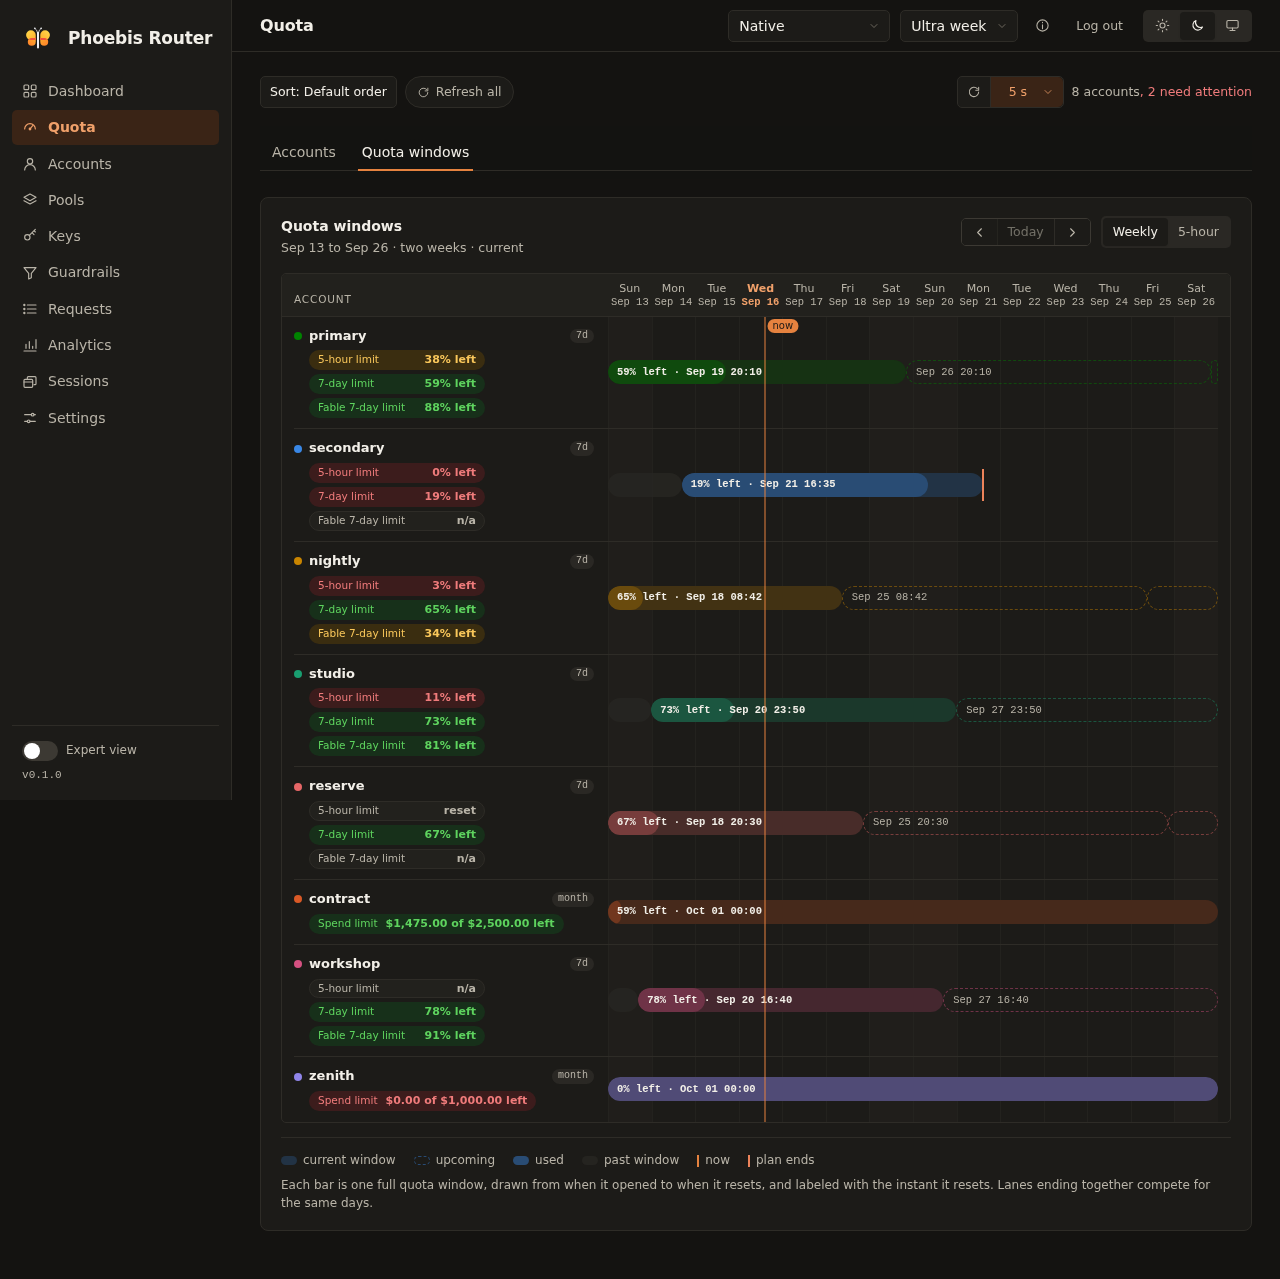
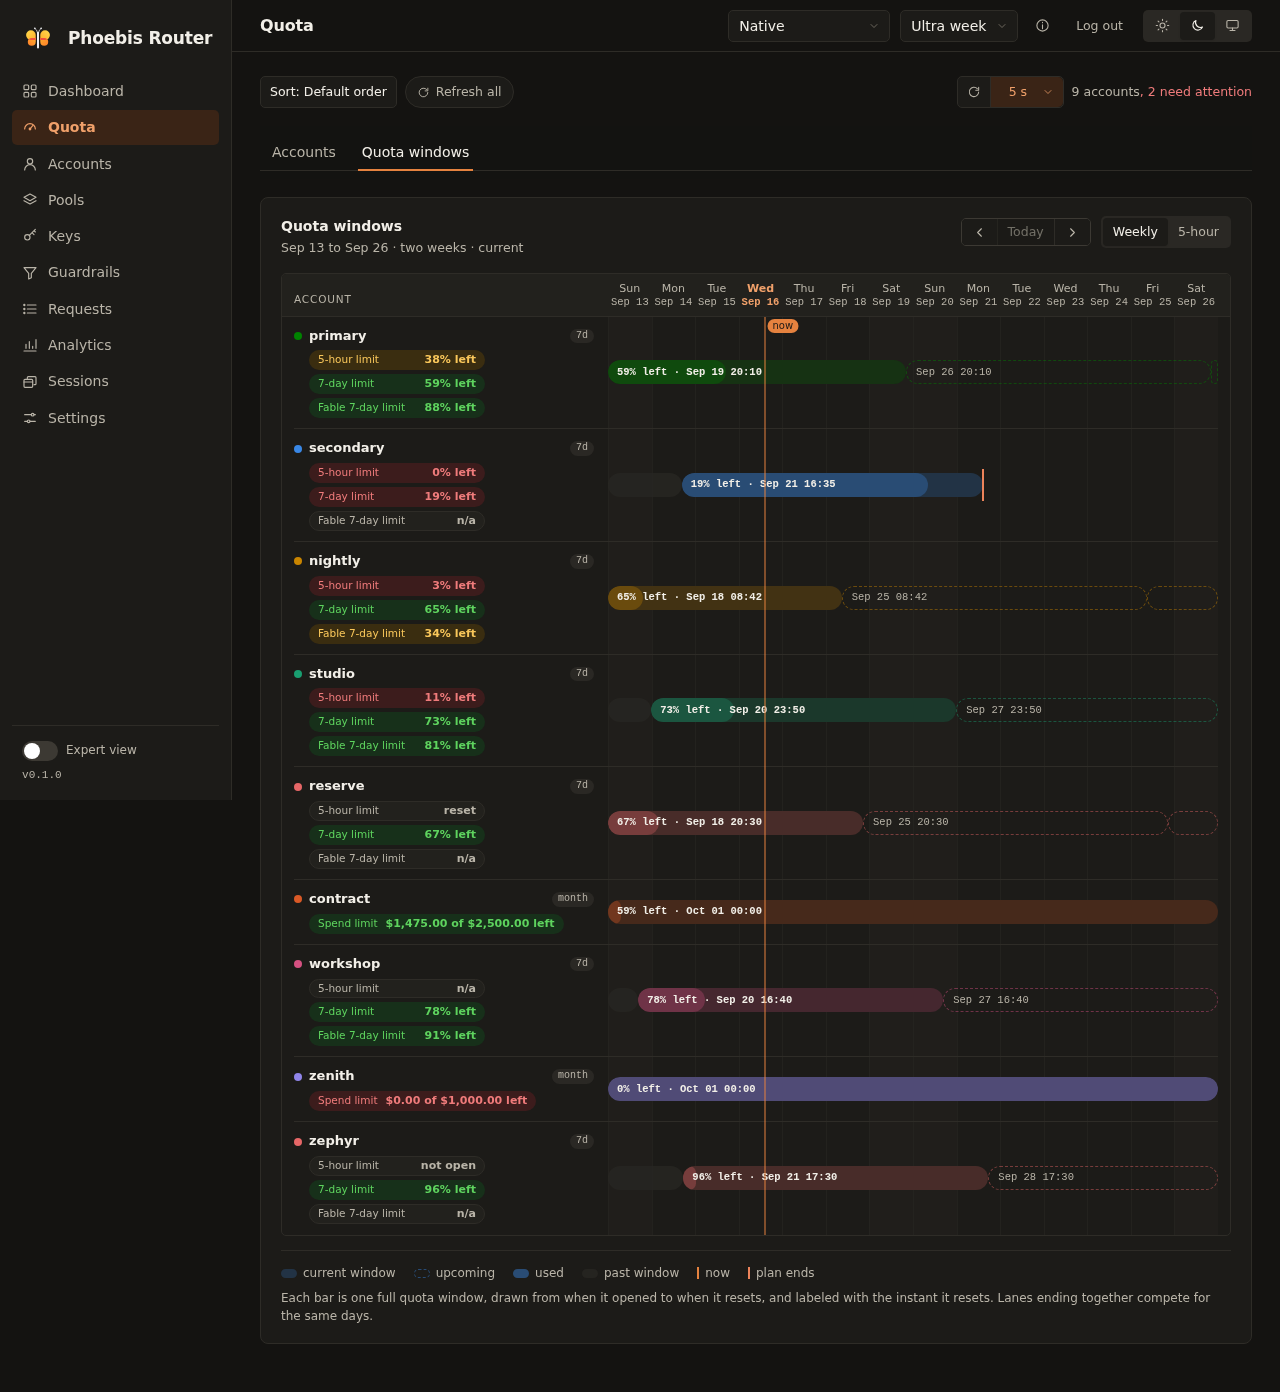
Mark resets within a minute and name a window that has not opened
The Quota card marked the soonest window to recover only where a
second reset equaled it to the millisecond, while the router reads two
resets within 60,000 ms of each other as one. The card now marks every
window within that slack of the soonest reset. A window with no reset
read as live: the card's row printed "resets -" beside "100% left in
5 h", the plan lane parsed a missing reset, and a slowed account kept
its speed chip on a 5-hour window that never opened. One function
names the state, "not open" at a utilization of 0 and "not reported"
otherwise, and the card's row, the timeline's chip, the plan lane and
the window bars read it.

No story account can take the state, so the mock gains zephyr, a Pro
login in no pool whose 5-hour window has not opened, last among the
seeds so no earlier seed's draws move. Its id sorts after every other,
so no older account changes color, and it shares reserve's slot, nine
drawn accounts on eight slots. The consistency case expects that one
pair.

The pinned lists take the sixteenth account. The Dashboard's Fable
ring names it without a Fable week, in the smoke and in the browser
pass, and the 7-day ring lists seven accounts where six. The Quota and
Accounts sort orders, the pool dialog's member lists, the resolved
plan map and the pool verdicts read it, eligible. The bar walks expect
its state in the reset's place, and the timeline's tone and share
reads take its grey chip. The quota-windows pair is retaken.

diff --git a/web/src/pages/QuotaPage.tsx b/web/src/pages/QuotaPage.tsx
@@ -15,7 +15,7 @@ import { Badge, Button, EmptyState, ErrorState, Meter, MeterAbsent, Pill, Segmen
 import { QUOTA_CODEC, QUOTA_SORT_KEYS, sortDirOf, type QuotaAddress } from '@/lib/address';
 import { CELL_MIN_PX, cellsFit, fmtAbsolute, fmtCredits, fmtDayShort, fmtEndsIn, fmtMinor, fmtMinute, fmtPct, fmtRelative, fmtShortHour, fmtShortTime, formatIn, getTimeFormat, listWords, messageOf, noun, plural, upperFirst } from '@/lib/format';
 import { useAsync, useHashSection, useNow, useQueryFilters, useResizeObserver } from '@/lib/hooks';
-import { STATUS_LABEL, STATUS_TONE, burnWords, canceledEndOf, endOf, extraUsageState, hasSpendReading, isExpired, isQuotaListed, leadOf, meterTone, onTimeline, paceWords, pollReading, projectionWords, remainingOf, remainingTimeShare, resetOf, slowedOf, soonestResetAt, spendLeftOf, spendResetTitle, timelineLanes, windowOf, type ExtraUsageState } from '@/lib/quota';
+import { NO_RESET_TITLE, STATUS_LABEL, STATUS_TONE, burnWords, canceledEndOf, endOf, extraUsageState, hasSpendReading, isExpired, isQuotaListed, leadOf, meterTone, noResetWord, onTimeline, paceWords, pollReading, projectionWords, remainingOf, remainingTimeShare, resetOf, slowedOf, soonestResetAt, spendLeftOf, spendResetTitle, timelineLanes, windowOf, type ExtraUsageState } from '@/lib/quota';
 import { readsFull, resetChip, resetMarks } from '@/lib/resets';
 import { slowDownChip } from '@/lib/selection';
 import { orderRows, type SortFigure } from '@/lib/sort';
@@ -383,14 +383,16 @@ function WindowChip({ id, window: w, className, now, resettable }: { className: 
  * row of its own under the meter. A slowed account's 5-hour window, passed its `slowDown`, closes its reset label with
  * the speed chip. A window the account's poll does not carry keeps its row, so the cards align, with the words
  * "no 5-hour window" muted in the reset label's place. A window a reset usable now clears, passed `resettable`,
- * carries the reset mark in its chip.
+ * carries the reset mark in its chip. A window with no reset names its state muted in the reset label's place.
  */
 function QuotaWindow({ end, id, window: w, now, resettable, slowDown = null, soon }: { end: number | null; id: WindowId; now: number; resettable: boolean; slowDown?: AccountSlowDown | null; soon: boolean; window: RateLimitWindow | null }) {
   // The last reading describes a window that has since reset, so its share says nothing until the next one.
   const live = w && !isExpired(w, now) ? w : null;
   const pace = live ? paceWords(live, now, end) : null;
   const reading = live ? `${live.label}: ${fmtPct(remainingOf(live))} left${pace ? `, ${pace}` : ''}` : '';
-  const projection = live ? projectionWords(live, now) : null;
+  // A window that has not opened has nothing to project, though the router answers its horizon five hours out.
+  const word = live ? noResetWord(live) : null;
+  const projection = live && word !== 'not open' ? projectionWords(live, now) : null;
   const burn = live ? burnWords(live) : null;
   return (
     <>
@@ -401,11 +403,16 @@ function QuotaWindow({ end, id, window: w, now, resettable, slowDown = null, soo
         <MeterAbsent />
       )}
       {live ? (
-        <span className={`qwin__reset ${projection ? 'qwin__reset--split' : ''} ${soon ? 'is-soon' : ''}`} title={`${fmtAbsolute(live.resetsAt)}${soon ? ', the first of this account to recover' : ''}${burn ? `, ${burn}` : ''}`}>
+        <span
+          className={`qwin__reset ${projection ? 'qwin__reset--split' : ''} ${soon ? 'is-soon' : ''}`}
+          title={word === 'not open' ? NO_RESET_TITLE[word] : `${word === null ? fmtAbsolute(live.resetsAt) : NO_RESET_TITLE[word]}${soon ? ', the first of this account to recover' : ''}${burn ? `, ${burn}` : ''}`}
+        >
           {projection ? (
             <>
-              <span className="qwin__part">resets {fmtRelative(live.resetsAt, now)},</span> <span className="qwin__part">{projection}</span>
+              <span className={word ? 'qwin__part muted' : 'qwin__part'}>{word ?? `resets ${fmtRelative(live.resetsAt, now)}`},</span> <span className="qwin__part">{projection}</span>
             </>
+          ) : word ? (
+            <span className="muted">{word}</span>
           ) : (
             `resets ${fmtRelative(live.resetsAt, now)}`
           )}
@@ -504,7 +511,7 @@ interface LaneFrame {
 }
 
 /** A pill naming the window and how much of it is left, toned by its share as the card chips are. Without a share
- *  it sits on the grey surface. */
+ *  it sits on the grey surface, and a window that has not opened names that state in the share's place. */
 function LaneChip({ label, window: w, now }: { label: string; now: number; window: RateLimitWindow | null }) {
   if (!w) {
     return (
@@ -520,9 +527,17 @@ function LaneChip({ label, window: w, now }: { label: string; now: number; windo
       </span>
     );
   }
+  const word = noResetWord(w);
+  if (word === 'not open') {
+    return (
+      <span className="tl-chip" title={`the ${label.toLowerCase()} has not opened, so it has no reset yet`}>
+        {label} <b className="tl-chip__pct muted">not open</b>
+      </span>
+    );
+  }
   const remaining = remainingOf(w);
   return (
-    <span className={`tl-chip tl-chip--${meterTone(remaining)}`} title={`${fmtPct(remaining)} of the ${label.toLowerCase()} left, resets ${fmtAbsolute(w.resetsAt)}`}>
+    <span className={`tl-chip tl-chip--${meterTone(remaining)}`} title={`${fmtPct(remaining)} of the ${label.toLowerCase()} left, ${word === null ? `resets ${fmtAbsolute(w.resetsAt)}` : 'no reset reported'}`}>
       {label} <b className="tl-chip__pct num">{fmtPct(remaining)} left</b>
     </span>
   );
@@ -687,16 +702,19 @@ function PlanLane({ account, color, frame, period, window: w }: { account: Accou
   const endMs = endsAt ? Date.parse(endsAt) : Number.POSITIVE_INFINITY;
   const endPct = endMs >= span.startMs && endMs < span.endMs ? ((endMs - span.startMs) / frame.width) * 100 : null;
   const bars: { end: number; start: number; stop: number }[] = [];
-  let start = resetAt - windowMs;
-  while (start > span.startMs) start -= windowMs;
-  for (; start < span.endMs; start += windowMs) {
-    const end = start + windowMs;
-    const stop = Math.min(end, endMs);
-    // The drawn end decides, so a window that spans the period's start draws nothing once the plan ended at or
-    // before that start.
-    if (stop <= span.startMs) continue;
-    if (start >= endMs) continue;
-    bars.push({ start, end, stop });
+  // A window with no reset has no period to project, so its lane keeps its chips over an empty track.
+  if (noResetWord(w) === null) {
+    let start = resetAt - windowMs;
+    while (start > span.startMs) start -= windowMs;
+    for (; start < span.endMs; start += windowMs) {
+      const end = start + windowMs;
+      const stop = Math.min(end, endMs);
+      // The drawn end decides, so a window that spans the period's start draws nothing once the plan ended at or
+      // before that start.
+      if (stop <= span.startMs) continue;
+      if (start >= endMs) continue;
+      bars.push({ start, end, stop });
+    }
   }
   return (
     <Lane

diff --git a/web/src/lib/quota.ts b/web/src/lib/quota.ts
@@ -102,12 +102,24 @@ export const planOverage = (account: Pick<Account, 'overage' | 'usageBased'>): A
 /** A window whose reset has passed with no reading since: the card and the timeline agree on this one test. */
 export const isExpired = (w: RateLimitWindow, now: number) => w.resetsAt !== null && Date.parse(w.resetsAt) < now;
 
+/** The state of a window with no reset: not open at a utilization of exactly 0, since the window never started, not
+ *  reported at any other utilization, and null for a window that carries a reset. */
+export const noResetWord = (w: Pick<RateLimitWindow, 'resetsAt' | 'utilization'>): 'not open' | 'not reported' | null =>
+  w.resetsAt !== null ? null : w.utilization === 0 ? 'not open' : 'not reported';
+
+/** The hover of a window with no reset by its state, which the card's row and the window bars share. */
+export const NO_RESET_TITLE: Readonly<Record<'not open' | 'not reported', string>> = {
+  'not open': 'this window has not opened, so it has no reset yet',
+  'not reported': 'the poll reported no reset for this window',
+};
+
 /** The slow-down a page draws the account's speed chip from: its entry while the speed the holds realized is under 1
- *  and the 5-hour window the entry was read from has not reset since, null otherwise. */
+ *  and the 5-hour window the entry was read from has not reset since, null otherwise. A 5-hour window that has not
+ *  opened means the one the entry was read from has ended. */
 export function slowedOf(account: Account, now: number): AccountSlowDown | null {
   const slowDown = account.slowDown ?? null;
   const w5 = windowOf(account, '5h');
-  return slowDown !== null && slowDown.speed < 1 && w5 !== null && !isExpired(w5, now) ? slowDown : null;
+  return slowDown !== null && slowDown.speed < 1 && w5 !== null && !isExpired(w5, now) && noResetWord(w5) !== 'not open' ? slowDown : null;
 }
 
 /**
@@ -256,22 +268,21 @@ const aheadOf = (at: string | null | undefined, now: number): number | null => {
   return t > now ? t : null;
 };
 
-/** The soonest future reset over every window the poll read and a seat's spend window, with every window at that
- *  instant, so the card marks each. Empty where no reset lies ahead. */
+/** The span inside which two resets read as one reset, the router's `RESET_SLACK_MS` (crates/routing/src/task.rs),
+ *  inclusive at the bound. */
+export const RESET_SLACK_MS = 60_000;
+
+/** The soonest future reset over every window the poll read and a seat's spend window, with every window whose reset
+ *  lies within `RESET_SLACK_MS` after it, in the reading's order, so the card marks each. Empty where no reset lies
+ *  ahead. */
 export function soonestResetAt(account: Account, now: number): WindowId[] {
-  let at = Number.POSITIVE_INFINITY;
-  let ids: WindowId[] = [];
-  const take = (id: WindowId, resetsAt: string | null | undefined) => {
-    // A window the sampler reported without a reset time can never be the soonest to recover.
-    const t = aheadOf(resetsAt, now);
-    if (t === null || t > at) return;
-    ids = t === at ? [...ids, id] : [id];
-    at = t;
-  };
-  for (const w of readWindows(account)) take(w.id, w.resetsAt);
-  // A usage-based seat recovers at its spend window's reset, the one reset it carries.
-  take('spend', account.spend?.resetsAt);
-  return ids;
+  // A window the sampler reported without a reset time can never be the soonest to recover, and a usage-based seat
+  // recovers at its spend window's reset, the one reset it carries.
+  const read: { at: number | null; id: WindowId }[] = [...readWindows(account).map((w) => ({ at: aheadOf(w.resetsAt, now), id: w.id })), { at: aheadOf(account.spend?.resetsAt, now), id: 'spend' }];
+  const resets = read.flatMap((r) => (r.at === null ? [] : [{ at: r.at, id: r.id }]));
+  const soonest = Math.min(...resets.map((r) => r.at));
+  // Measured from the soonest reset, so a window within the slack of a marked one but past the soonest's is unmarked.
+  return resets.filter((r) => r.at - soonest <= RESET_SLACK_MS).map((r) => r.id);
 }
 
 /** One window's future reset, or null where the window is absent, expired or carries none. `'7d_fable'` reads

diff --git a/web/src/components/ui/QuotaBars.tsx b/web/src/components/ui/QuotaBars.tsx
@@ -1,6 +1,6 @@
 import type { Account, AccountSlowDown, RateLimitWindow, Spend } from '@/api/types';
 import { fmtAbsolute, fmtMinor, fmtPct, fmtRelative } from '@/lib/format';
-import { hasSpendReading, isExpired, isSubscription, meterTone, planEndedSentence, projectionParts, remainingOf, slowedOf, spendResetTitle, windowOf } from '@/lib/quota';
+import { NO_RESET_TITLE, hasSpendReading, isExpired, isSubscription, meterTone, noResetWord, planEndedSentence, projectionParts, remainingOf, slowedOf, spendResetTitle, windowOf } from '@/lib/quota';
 import { slowDownChip } from '@/lib/selection';
 import { WINDOW_ORDER, windowTag, windowWord } from '@/lib/windows';
 import { Meter, MeterAbsent } from './primitives';
@@ -8,12 +8,15 @@ import { SpeedChip } from './SpeedChip';
 
 /**
  * `slowDown` is a slowed account's slow-down, which the whole 5-hour bar alone reads: its speed chip follows the label.
+ * A window with no reset names its state muted on the reset line, under the hover the Quota card's row gives it.
  */
 export function WindowBar({ window: w, now, soon = false, showLabel = true, compact = false, slowDown = null }: { compact?: boolean; now: number; showLabel?: boolean; slowDown?: AccountSlowDown | null; soon?: boolean; window: RateLimitWindow }) {
   const remaining = remainingOf(w);
-  const reset = compact ? fmtRelative(w.resetsAt, now) : `resets ${fmtRelative(w.resetsAt, now)}`;
-  // A window past its reset says nothing until its next reading, as the Quota cell's expired line does.
-  const projection = isExpired(w, now) ? null : projectionParts(w, now, compact);
+  const word = noResetWord(w);
+  const reset = word ?? (compact ? fmtRelative(w.resetsAt, now) : `resets ${fmtRelative(w.resetsAt, now)}`);
+  // A window past its reset says nothing until its next reading, as the Quota cell's expired line does, and one that
+  // has not opened has nothing to project, though the router answers its horizon.
+  const projection = isExpired(w, now) || word === 'not open' ? null : projectionParts(w, now, compact);
   return (
     <div className="wbar">
       <div className="wbar__head">
@@ -28,16 +31,20 @@ export function WindowBar({ window: w, now, soon = false, showLabel = true, comp
           a third of a card holds one of the two, and breaks it between its
           share and its horizon where even that is too wide. A whole bar keeps
           both and breaks between them where it is too narrow. */}
-      <div className={`wbar__reset ${projection !== null ? 'wbar__reset--split' : ''} ${soon ? 'is-soon' : ''}`} title={`resets ${fmtAbsolute(w.resetsAt)}`}>
+      <div className={`wbar__reset ${projection !== null ? 'wbar__reset--split' : ''} ${soon ? 'is-soon' : ''}`} title={word === null ? `resets ${fmtAbsolute(w.resetsAt)}` : NO_RESET_TITLE[word]}>
         {projection === null ? (
-          reset
+          word === null ? (
+            reset
+          ) : (
+            <span className="muted">{word}</span>
+          )
         ) : compact ? (
           <>
             <span className="wbar__part">{projection[0]}</span> <span className="wbar__part">{projection[1]}</span>
           </>
         ) : (
           <>
-            <span className="wbar__part">{reset},</span> <span className="wbar__part">{projection.join(' ')}</span>
+            <span className={word === null ? 'wbar__part' : 'wbar__part muted'}>{reset},</span> <span className="wbar__part">{projection.join(' ')}</span>
           </>
         )}
       </div>

diff --git a/web/src/mock/accounts.ts b/web/src/mock/accounts.ts
@@ -563,6 +563,34 @@ const SEEDS = [
     requests: { last24h: 0, last7d: 0, lifetime: 0 },
     cooldowns: [],
   },
+  // A Pro login in no pool whose 5-hour window has not opened, which the router answers with no reset and a projection
+  // of 0 five hours out. After the older seeds, so every seed above keeps its history's draws, and its id sorts last,
+  // so every older account keeps its color: the palette's eight slots put it on reserve's.
+  {
+    ...ACCOUNT_SAMPLE,
+    id: 'zephyr',
+    kind: 'oauth',
+    label: 'zephyr',
+    email: 'operator+zephyr@example.com',
+    status: 'ready',
+    routingEnabled: true,
+    // `win` reads a 5-hour window's horizon off its reset, so the window takes the horizon of a reset five hours out
+    // and then drops the reset it lacks.
+    windows: [{ ...win('5h', 0, 5 * HOUR), resetsAt: null }, win('7d', 0.04, 5 * DAY + 3 * HOUR)],
+    fableWindow: null,
+    extraUsage: null,
+    fastLane: null,
+    credential: {
+      accessTokenExpiresAt: ahead(6 * HOUR + 20 * MINUTE),
+      lastError: null,
+      lastRefreshAt: ago(1 * HOUR + 40 * MINUTE),
+      quarantined: false,
+      refreshTokenExpiresAt: ahead(60 * DAY),
+    },
+    subscription: { billingType: 'monthly', organizationType: 'claude_pro', planDisplayName: null, rateLimitTier: 'default_claude_ai', since: ago(20 * DAY), trialEndsAt: null, endsAt: null },
+    requests: { last24h: 0, last7d: 0, lifetime: 0 },
+    cooldowns: [],
+  },
 ] satisfies Seed[];
 
 /** The word an organization type resolves to, the Max type's read by its tier. */
@@ -728,11 +756,18 @@ function carryLegacyEdges(account: (typeof ACCOUNTS)[number], w: RateLimitWindow
   });
 }
 
-// The samples are built from the literal's windows, since a flagged account answers none.
+// The samples are built from the literal's windows, since a flagged account answers none. A window with no reset has
+// no period to place samples in, so it answers none.
 export const QUOTA_HISTORY: QuotaHistory[] = SEEDS.flatMap((seed, i) =>
-  readWindows(seed).map((w) => ({
-    accountId: seed.id,
-    windowId: w.id,
-    samples: carryLegacyEdges(ACCOUNTS[i], w, sawtooth(1000 + i * 7 + (HISTORY_SEED[w.id] ?? 4), Date.parse(w.resetsAt ?? ''), w.periodHours * HOUR, w.utilization, samplesEndOf(ACCOUNTS[i]))),
-  })),
+  readWindows(seed).flatMap((w) =>
+    w.resetsAt === null
+      ? []
+      : [
+          {
+            accountId: seed.id,
+            windowId: w.id,
+            samples: carryLegacyEdges(ACCOUNTS[i], w, sawtooth(1000 + i * 7 + (HISTORY_SEED[w.id] ?? 4), Date.parse(w.resetsAt), w.periodHours * HOUR, w.utilization, samplesEndOf(ACCOUNTS[i]))),
+          },
+        ],
+  ),
 );
